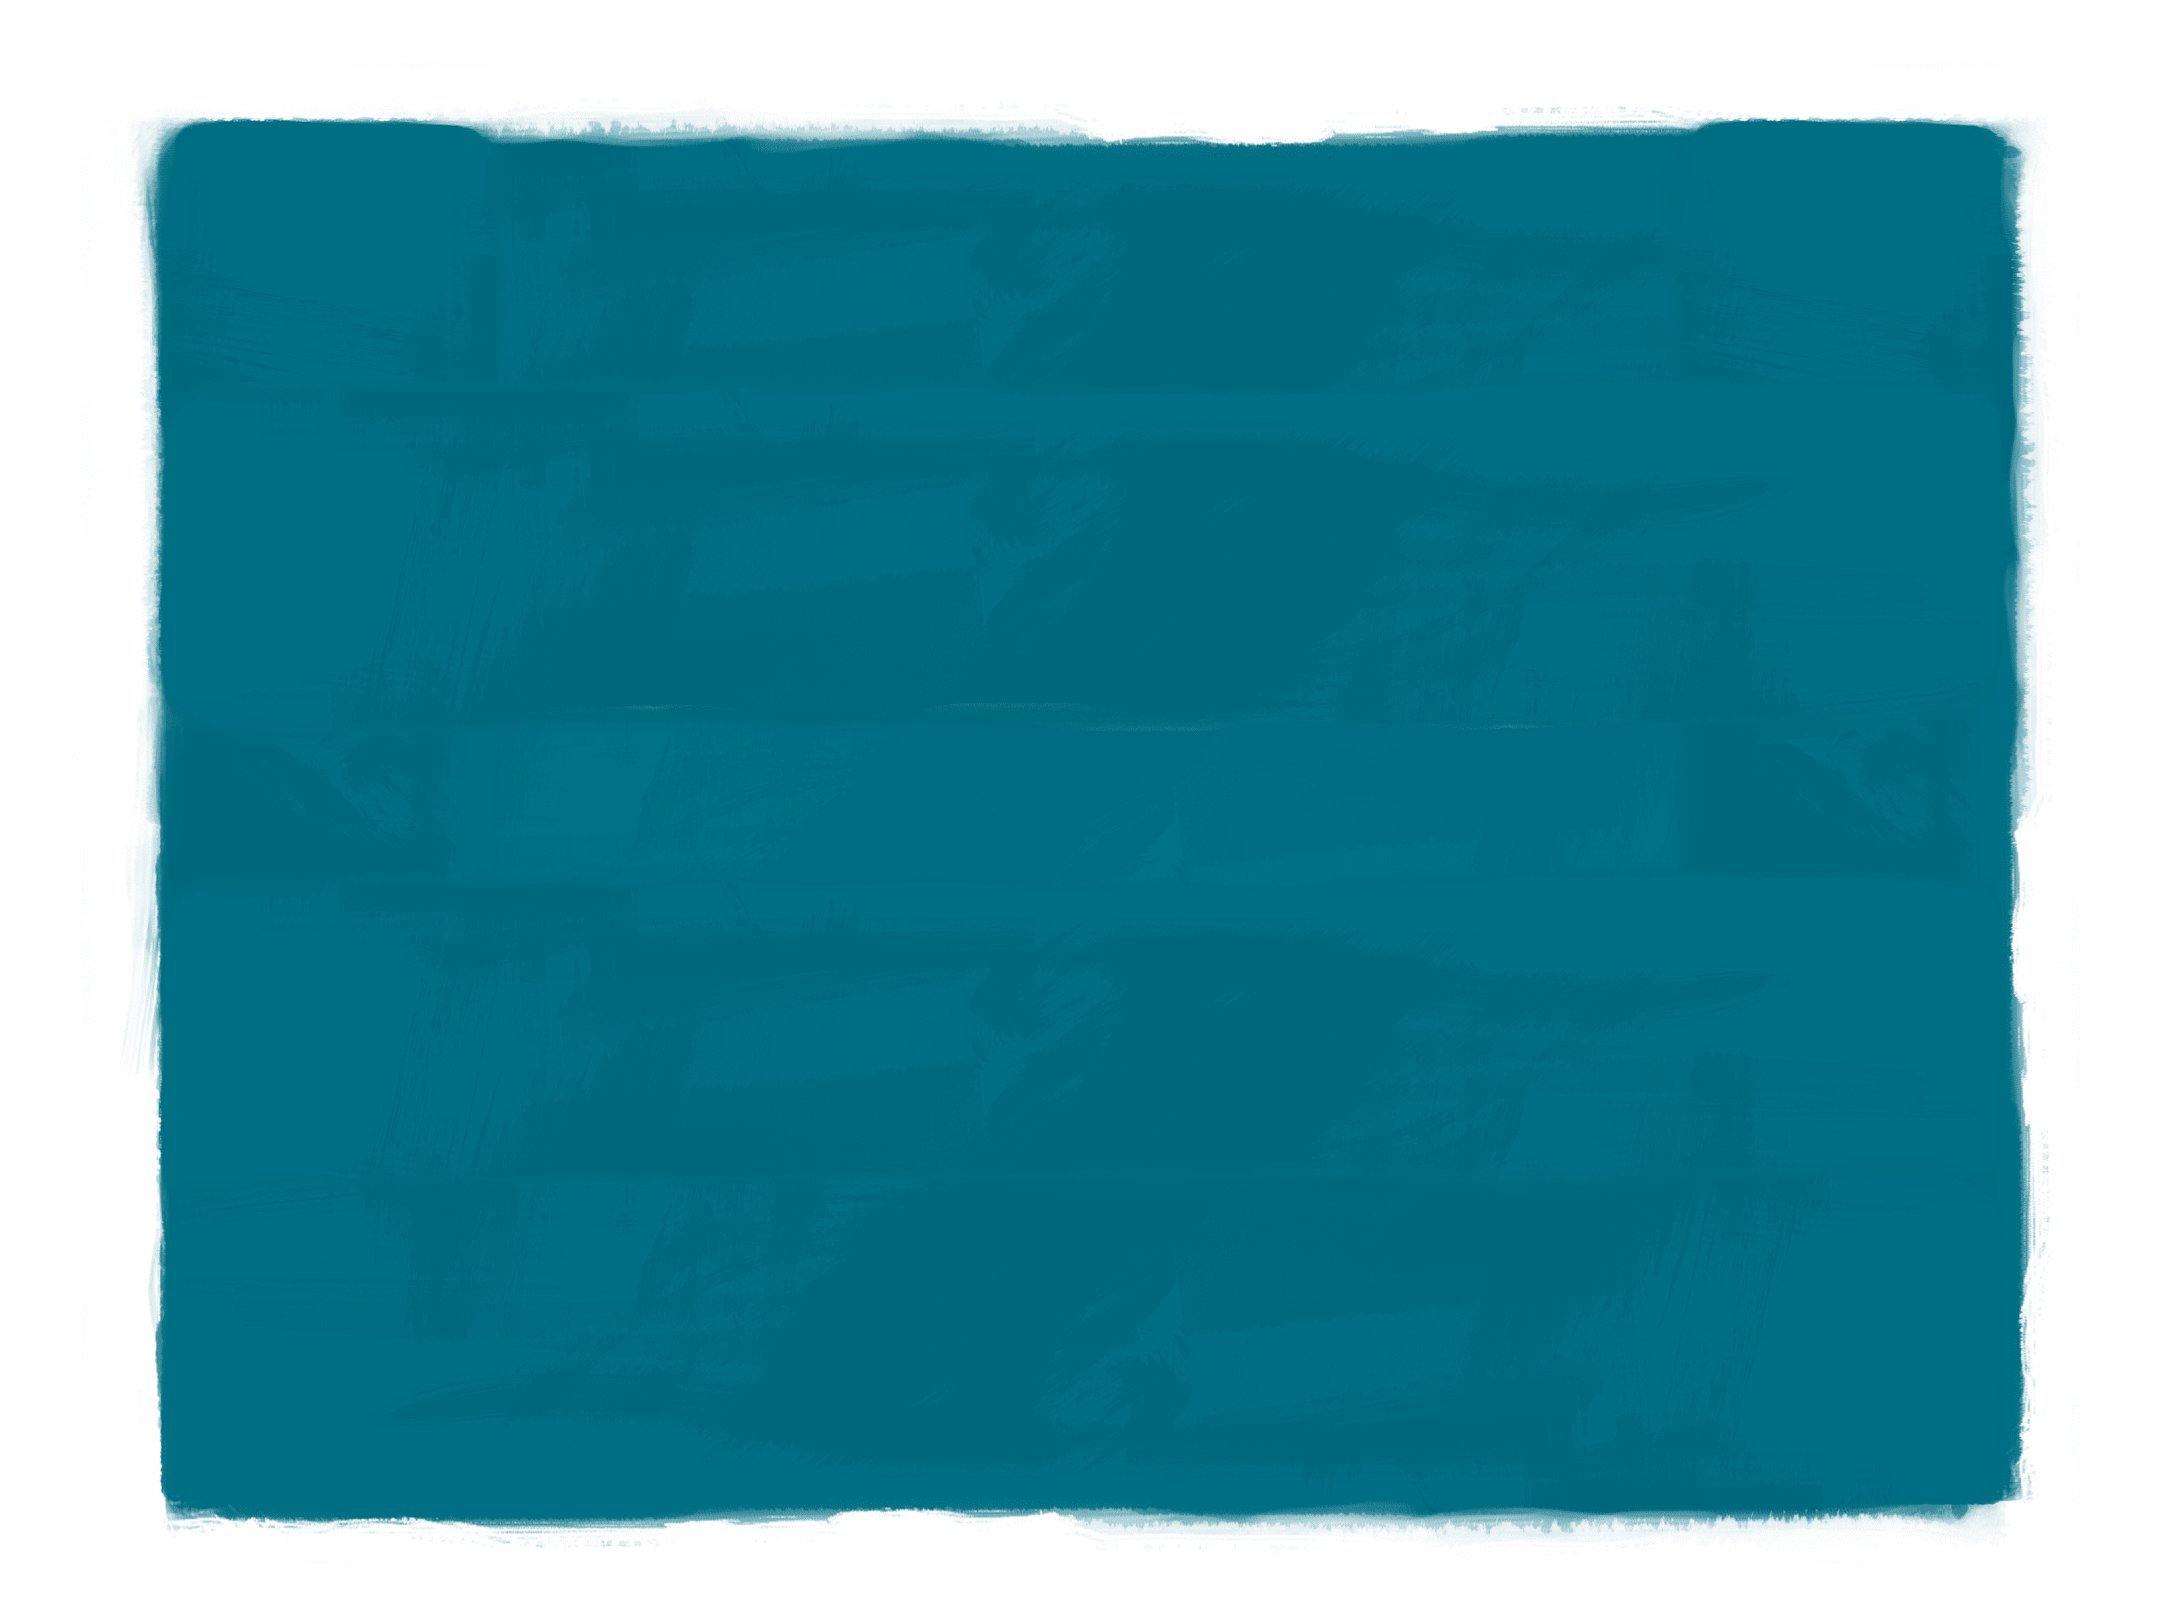
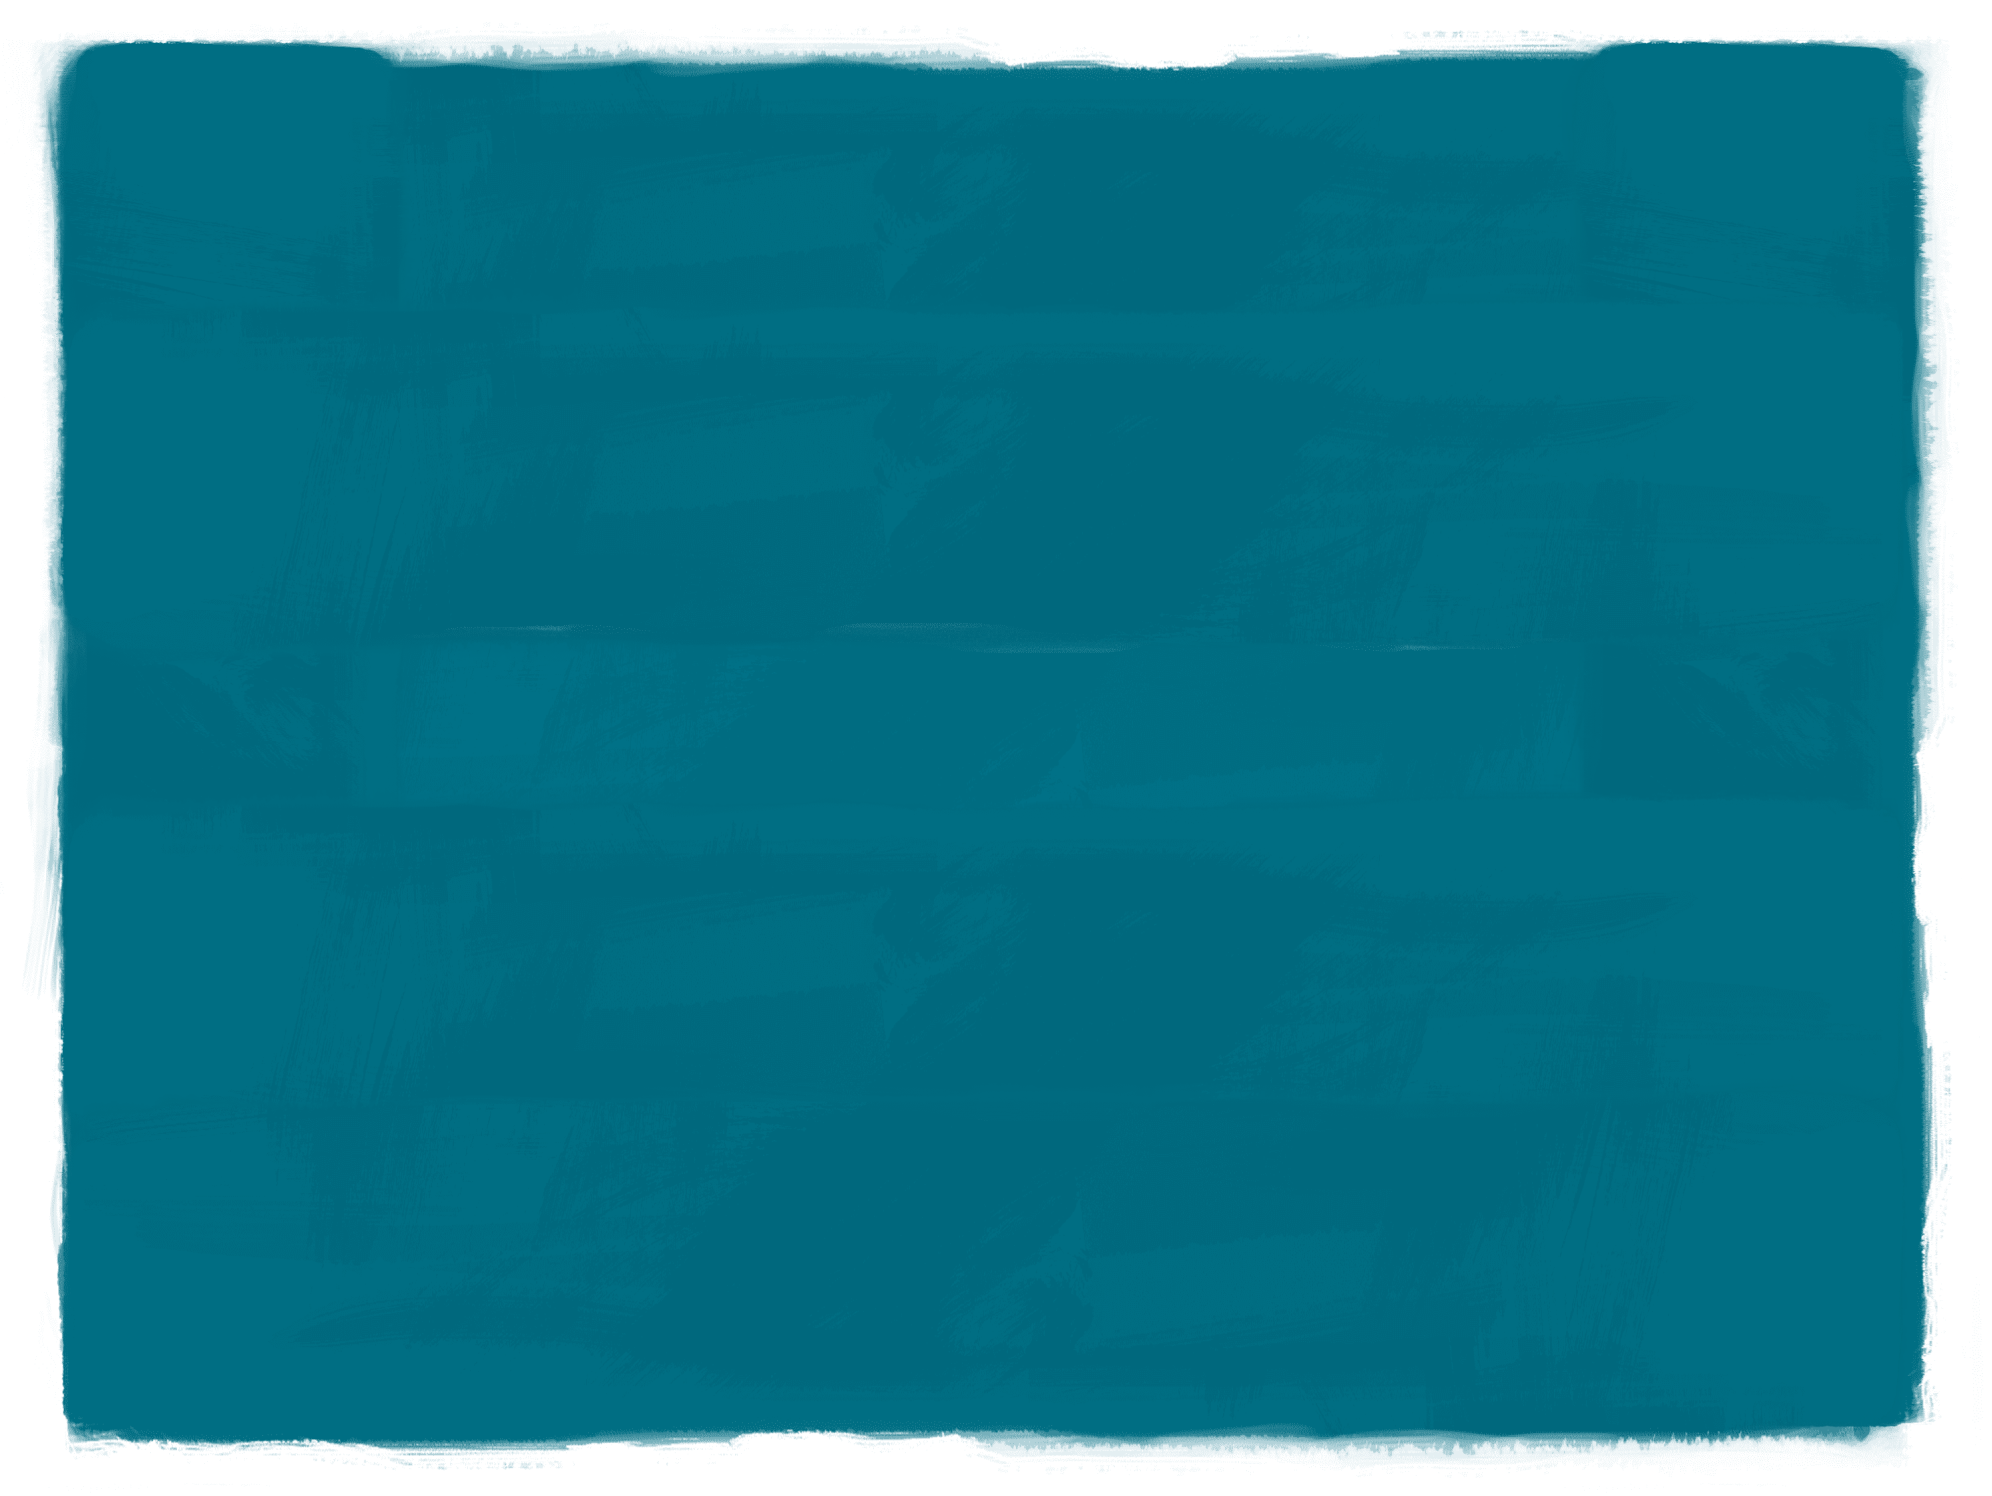
Background tweaks and return to original color palette.

Changed region(s): [[0.0, 0.0, 0.996, 0.984]]

diff --git a/rothko/parts/footer.html b/rothko/parts/footer.html
@@ -14,16 +14,16 @@
 <!-- /wp:spacer -->
 
 <!-- wp:group {"backgroundColor":"primary","className":"fixed-bottom-nav","layout":{"type":"flex","flexWrap":"nowrap","justifyContent":"space-between"}} -->
-<div class="wp-block-group fixed-bottom-nav has-primary-background-color has-background"><!-- wp:group {"style":{"spacing":{"blockGap":"1rem","padding":{"left":"2rem"}}},"textColor":"tertiary","layout":{"type":"flex","flexWrap":"wrap"}} -->
-<div class="wp-block-group has-tertiary-color has-text-color" style="padding-left:2rem"><!-- wp:site-title {"style":{"typography":{"fontStyle":"normal","fontWeight":"600"}},"fontSize":"medium"} /-->
+<div class="wp-block-group fixed-bottom-nav has-primary-background-color has-background"><!-- wp:group {"style":{"spacing":{"blockGap":"1rem","padding":{"left":"2rem"}}},"layout":{"type":"flex","flexWrap":"wrap"}} -->
+<div class="wp-block-group" style="padding-left:2rem"><!-- wp:site-title {"style":{"typography":{"fontStyle":"normal","fontWeight":"600"}},"fontSize":"medium"} /-->
 
 <!-- wp:site-tagline {"style":{"typography":{"fontStyle":"italic","fontWeight":"400"}},"fontFamily":"newsreader"} /--></div>
 <!-- /wp:group -->
 
 <!-- wp:group {"style":{"spacing":{"padding":{"right":"2rem"},"blockGap":"1rem"}},"layout":{"type":"flex","flexWrap":"nowrap"}} -->
-<div class="wp-block-group" style="padding-right:2rem"><!-- wp:navigation {"ref":6,"textColor":"tertiary","overlayMenu":"always","overlayBackgroundColor":"primary","overlayTextColor":"tertiary","layout":{"type":"flex","flexWrap":"nowrap","orientation":"vertical"},"style":{"typography":{"fontStyle":"normal","fontWeight":"300"},"spacing":{"blockGap":"2rem"}},"fontSize":"large","fontFamily":"newsreader"} /-->
+<div class="wp-block-group" style="padding-right:2rem"><!-- wp:navigation {"ref":6,"overlayMenu":"always","overlayBackgroundColor":"primary","layout":{"type":"flex","flexWrap":"nowrap","orientation":"vertical"},"style":{"typography":{"fontStyle":"normal","fontWeight":"300"},"spacing":{"blockGap":"2rem"}},"fontSize":"large","fontFamily":"newsreader"} /-->
 
-<!-- wp:search {"label":"Search","showLabel":false,"buttonText":"Search","buttonPosition":"button-only","buttonUseIcon":true,"isSearchFieldHidden":true,"backgroundColor":"secondary","textColor":"tertiary"} /--></div>
+<!-- wp:search {"label":"Search","showLabel":false,"buttonText":"Search","buttonPosition":"button-only","buttonUseIcon":true,"isSearchFieldHidden":true,"textColor":"foreground"} /--></div>
 <!-- /wp:group --></div>
 <!-- /wp:group --></div>
 <!-- /wp:group -->

diff --git a/rothko/style.css b/rothko/style.css
@@ -115,7 +115,6 @@ Tags: one-column, custom-colors, custom-menu, custom-logo, editor-style, feature
     pointer-events: none;
 }
 
-
 /* Custom Rothko alternating post style */
 .wp-block-post-template-is-layout-flow > .wp-block-post .post-content-rothko-container::before {
 	content: '';
@@ -132,19 +131,15 @@ Tags: one-column, custom-colors, custom-menu, custom-logo, editor-style, feature
 }
 
 .wp-block-post-template-is-layout-flow > .wp-block-post:nth-child(2n) .post-content-rothko-container {
-	background-image: url(assets/images/post-white.png);
+	background-image: url(assets/images/post-teal.png);
 }
 
 .wp-block-post-template-is-layout-flow > .wp-block-post:nth-child(3n) .post-content-rothko-container {
-	background-image: url(assets/images/post-75.png);
-}
-
-.wp-block-post-template-is-layout-flow > .wp-block-post:nth-child(4n) .post-content-rothko-container {
 	background-image: url(assets/images/post-white.png);
 }
 
 .wp-block-post-template-is-layout-flow > .wp-block-post:nth-child(4n) .post-content-rothko-container {
-	background-image: url(assets/images/post-beige.png);
+	background-image: url(assets/images/post-75.png);
 }
 
 .post-content-rothko-container {
@@ -174,4 +169,29 @@ Tags: one-column, custom-colors, custom-menu, custom-logo, editor-style, feature
 	.post-content-rothko-container, .rothko-archive-title, .rothko-single-container {
 		background-size: 75% 100% !important;
 	}
+}
+
+/* Nav modal styles */
+.wp-block-navigation__responsive-container.is-menu-open::before {
+    content: "";
+    position: absolute;
+    top: 0;
+    left: 0;
+    width: 100%;
+    height: 100%;
+    background-color: inherit;
+    mix-blend-mode: color; /* Change to desired blend mode */
+    pointer-events: none;
+}
+
+.wp-block-navigation__responsive-container {
+    top: 0;
+    left: 0;
+    width: 100%;
+    height: 100%;
+	background-image: url(assets/images/background-greyscale.png);
+	background-size: contain;
+	background-repeat: repeat;
+	position: fixed;
+    z-index: -1; /* Keeps the background behind other content */
 }
